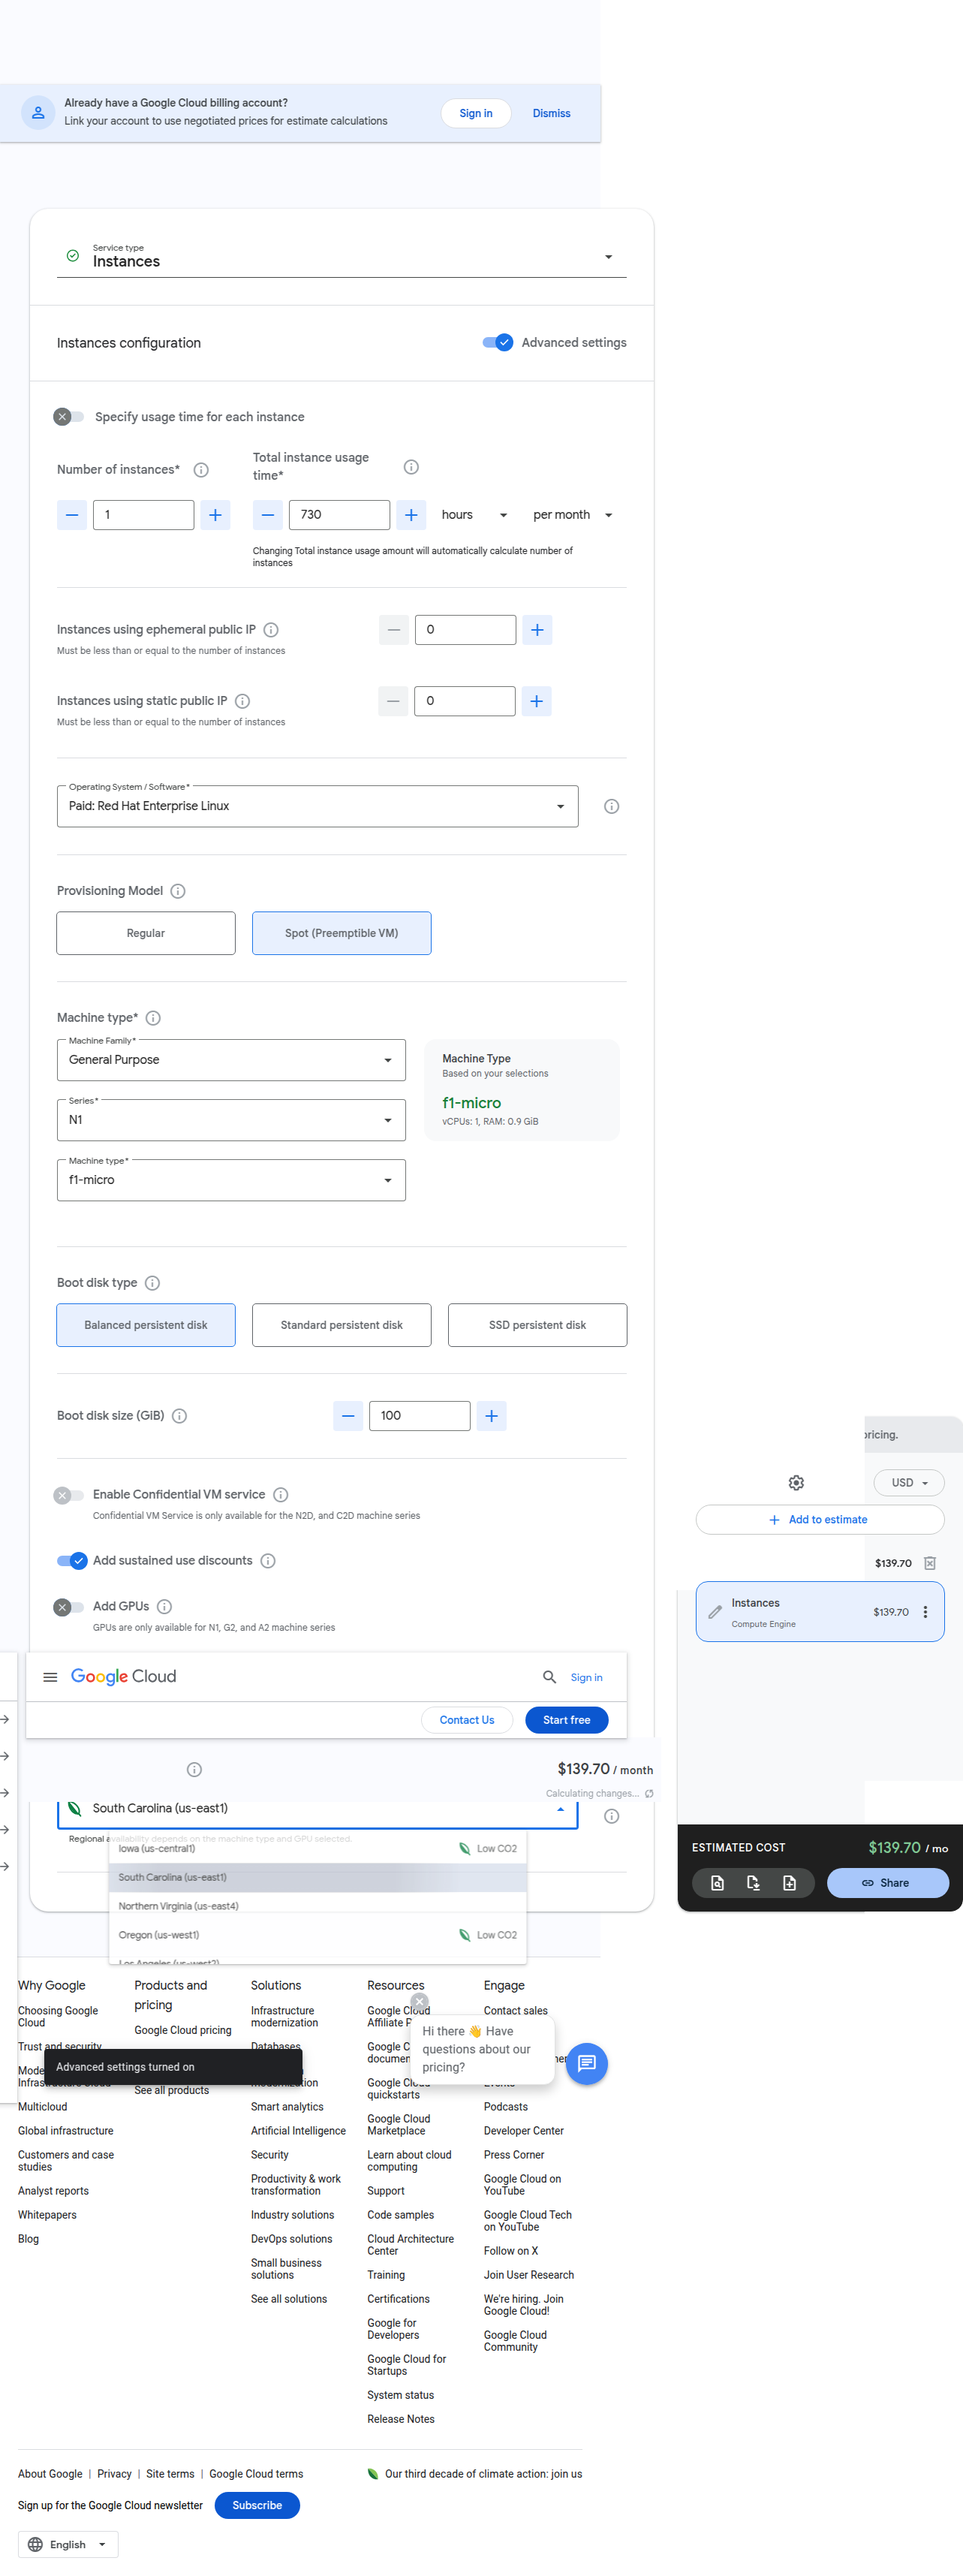
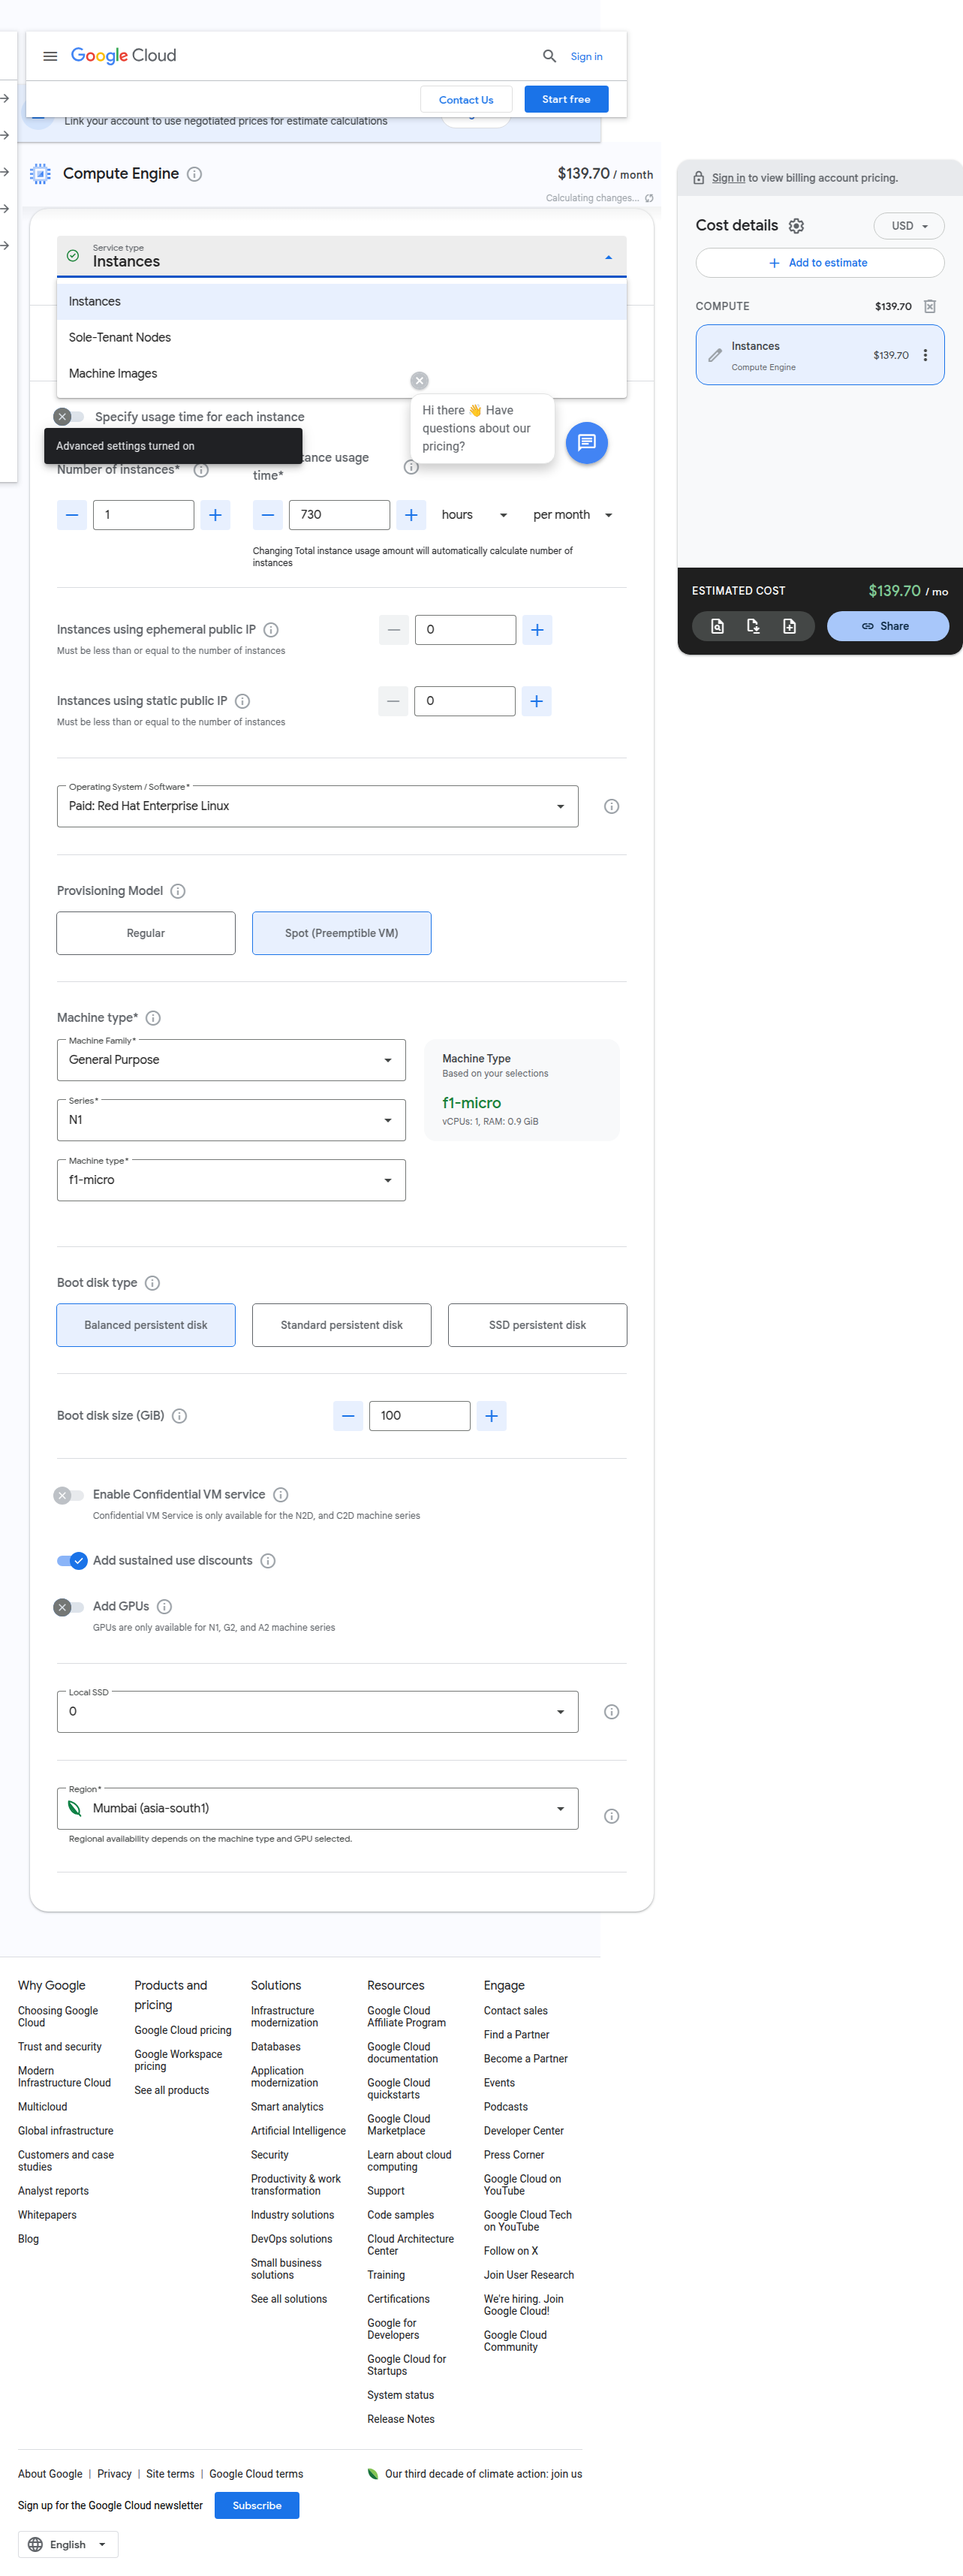
url bug

diff --git a/under dev/compute.js b/under dev/compute.js
@@ -356,71 +356,52 @@ async function setBootDiskSize(pageOrFrame, sizeInGB = 100) {
   
   
   
-  async function selectRegion(pageOrFrame, value = 'us-east1') {
+  async function selectRegion(pageOrFrame, value = 'asia-south1') {
     console.log(`🌎 Selecting Region: "${value}"`);
   
-    const dropdowns = await pageOrFrame.$$('div.S8daBe-aPP78e');
-    console.log(`🔍 Found ${dropdowns.length} dropdowns.`);
+    const regionDisplayHandle = await pageOrFrame.$('span.S8daBe-uusGie-fmcmS');
   
-    let regionDropdown = null;
-  
-    for (const dropdown of dropdowns) {
-      const labelText = await pageOrFrame.evaluate(el => {
-        const parent = el.closest('div[jscontroller]');
-        if (!parent) return null;
-        const label = parent.querySelector('span[jsname="YRMmle"]');
-        return label ? label.textContent.trim().toLowerCase() : null;
-      }, dropdown);
-  
-      if (labelText === 'region') {
-        regionDropdown = dropdown;
-        break;
-      }
+    if (!regionDisplayHandle) {
+      throw new Error('❌ Region display element not found');
     }
   
-    if (!regionDropdown) throw new Error('❌ Region dropdown trigger not found');
+    const regionDropdownHandle = await regionDisplayHandle.evaluateHandle((el) => {
+      while (el && !el.getAttribute('role')?.includes('combobox')) {
+        el = el.parentElement;
+      }
+      return el;
+    });
   
-    await regionDropdown.click();
+    if (!regionDropdownHandle) {
+      throw new Error('❌ Region dropdown trigger not found');
+    }
+  
+    await regionDropdownHandle.click();
     console.log('📂 Region dropdown clicked. Waiting for options...');
   
-    // Try multiple possible selectors
-    const selectorsToTry = [
-      'ul[role="listbox"] li[role="option"][data-value]',
-      'div[jsname="SDSjce"] ul[role="listbox"] li[role="option"][data-value]',
-      'li[role="option"][data-value]'
-    ];
+    await pageOrFrame.waitForSelector('ul[role="listbox"] li[role="option"][data-value]', {
+      visible: true,
+      timeout: 10000,
+    });
   
-    let optionsSelector = null;
-  
-    for (const selector of selectorsToTry) {
-      try {
-        await pageOrFrame.waitForSelector(selector, { timeout: 5000 });
-        optionsSelector = selector;
-        break;
-      } catch {
-        continue;
-      }
-    }
-  
-    if (!optionsSelector) throw new Error('❌ Region options did not appear in any known selectors');
-  
-    const clicked = await pageOrFrame.evaluate((val) => {
-      const items = Array.from(document.querySelectorAll('li[role="option"][data-value]'));
-      for (const item of items) {
-        if (item.getAttribute('data-value') === val) {
-          item.scrollIntoView({ block: 'center' });
-          item.click();
-          return true;
-        }
+    // Select the desired region
+    const success = await pageOrFrame.evaluate((targetValue) => {
+      const options = [...document.querySelectorAll('ul[role="listbox"] li[role="option"]')];
+      const option = options.find((el) => el.dataset.value === targetValue);
+      if (option) {
+        option.scrollIntoView({ block: 'center' });
+        option.click();
+        return true;
       }
       return false;
     }, value);
   
-    if (!clicked) throw new Error(`❌ Region "${value}" not found in dropdown`);
+    if (!success) {
+      throw new Error(`❌ Region "${value}" not found in dropdown`);
+    }
+  
     console.log(`✅ Region selected: ${value}`);
   }
-  
-  
   
   
   
@@ -430,13 +411,17 @@ async function selectCUD1YearOption(page) {}
 async function selectCUD3YearOption(page) {}
 async function scrapeMachineTypeData(page) {}
 async function scrapeEstimatedPrice(page) {}
-async function scrapePrice(page) {}
 
-async function scrapeUrl(page) {
-    const currentUrl = page.url();
-    console.log(`🔗 Current page URL: ${currentUrl}`);
-    return currentUrl;
-  }
+
+async function scrapeUrl(page, waitMs = 3000) {
+  console.log(`⏳ Waiting ${waitMs}ms to ensure all inputs reflect in URL...`);
+  await wait(waitMs); 
+
+  const url = page.url();
+  console.log(`🔗 Final page URL: ${url}`);
+  return url;
+}
+
   
 
 
@@ -478,7 +463,7 @@ async function calculateGCPCosts() {
         // 🔍 Scraping
         await scrapeMachineTypeData(page);
         await scrapeEstimatedPrice(page);
-        await scrapePrice(page);
+        
         await scrapeUrl(page);
 
         // 📸 Screenshot after all steps
